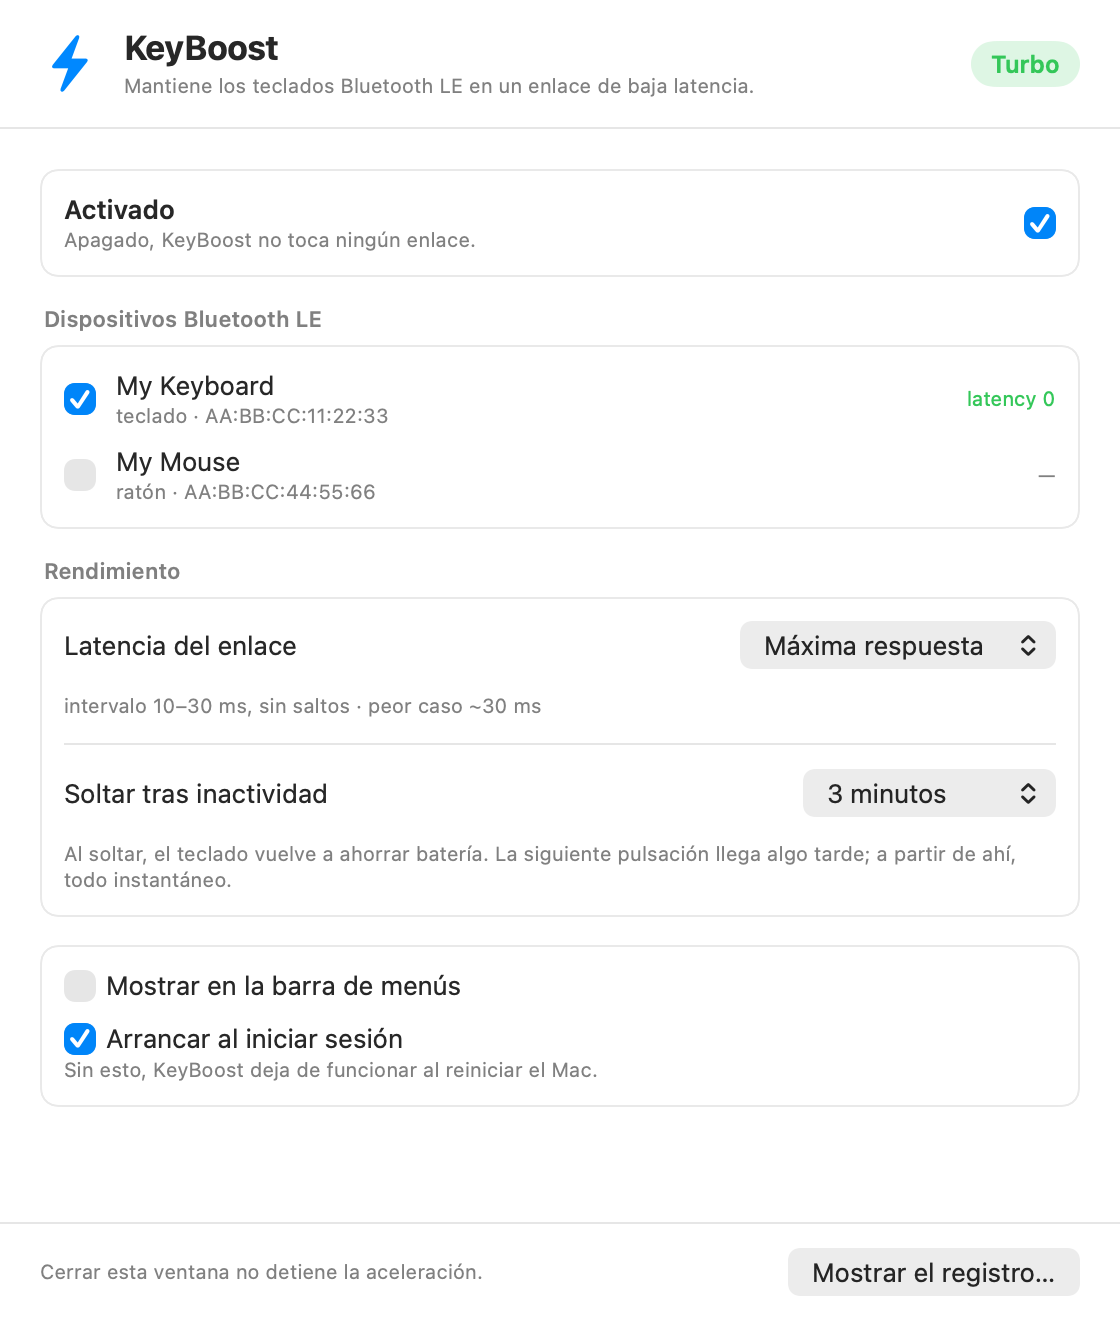
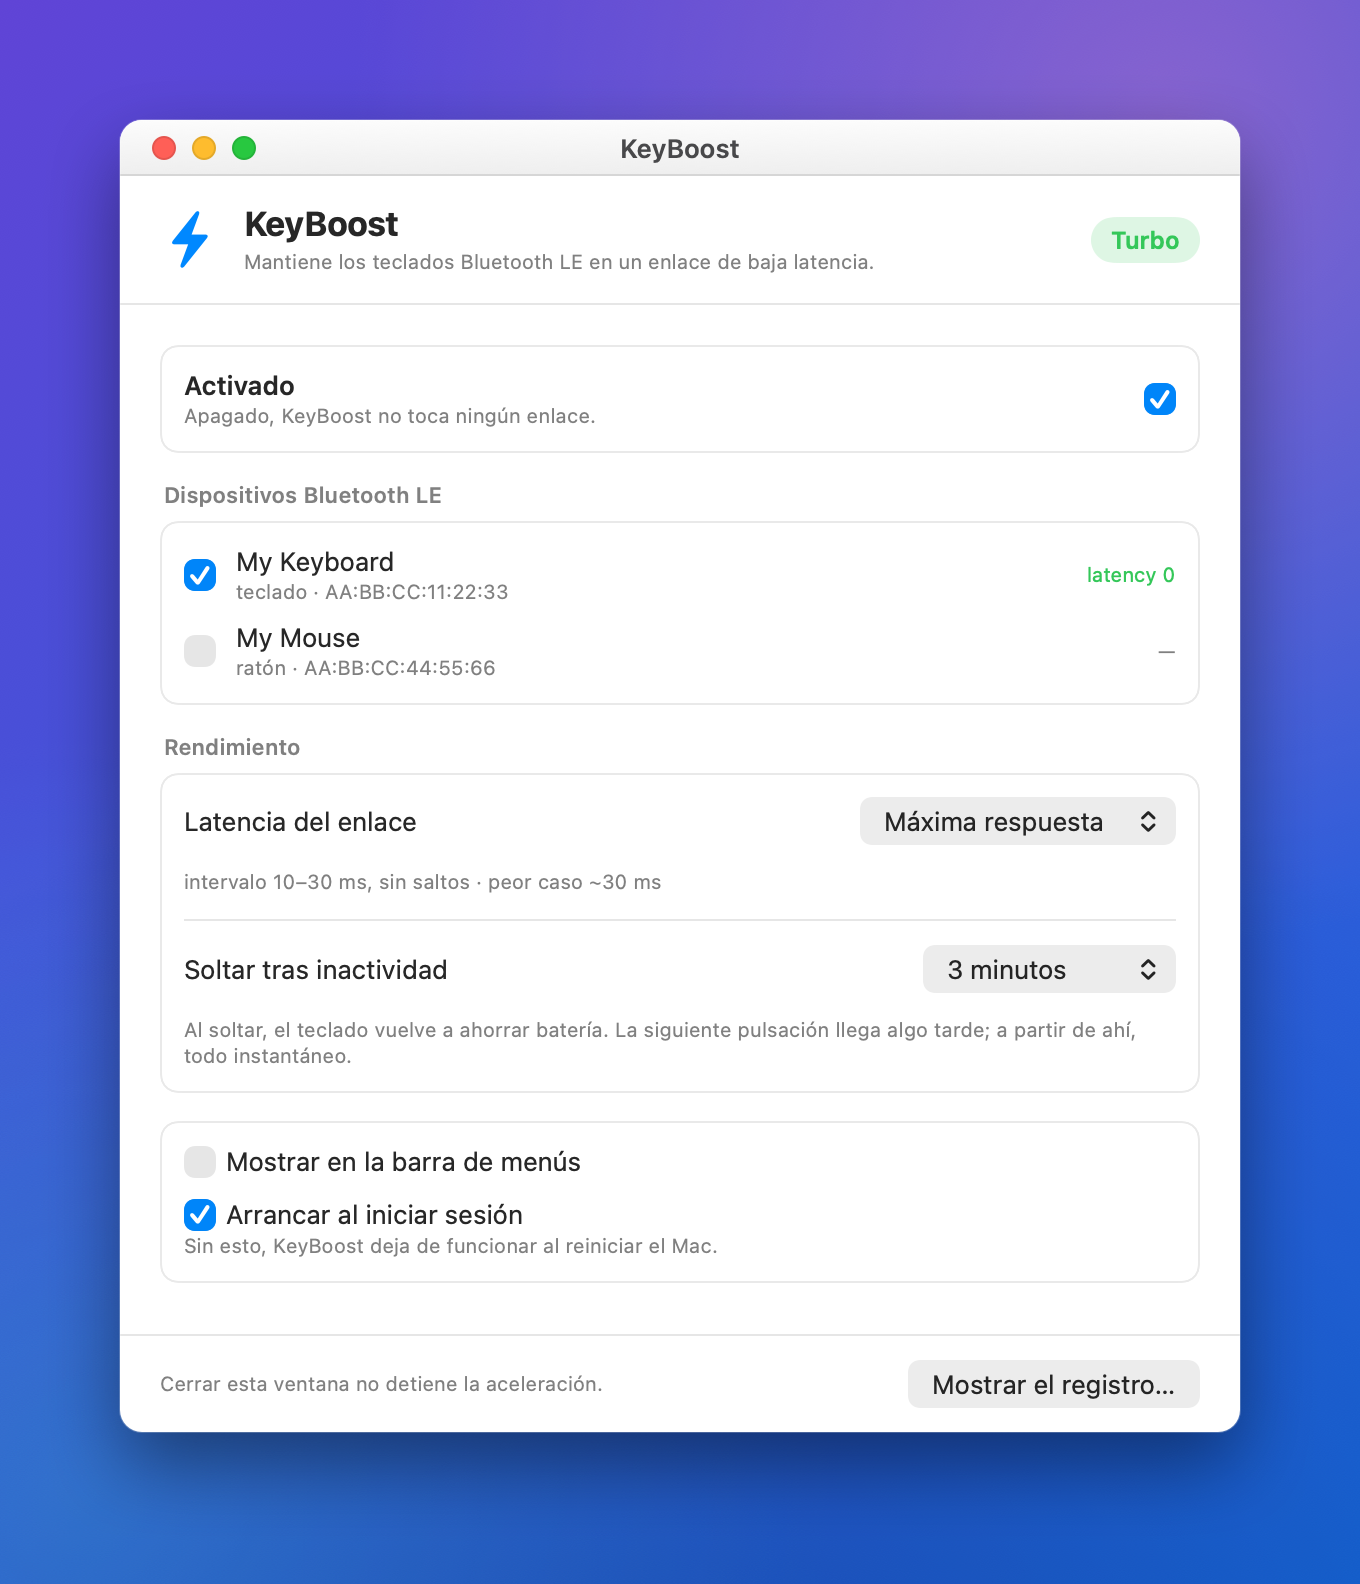
Add a framed screenshot with a desktop background
The bare render had no window chrome and read as a floating rectangle with no
context. It now sits in a proper macOS window — traffic lights, title bar, drop
shadow — on a gradient desktop.

scripts/make-screenshot.swift generates it, so it can be regenerated for any
language with -AppleLanguages. It uses ImageRenderer rather than a screen
capture, which keeps it free of any Screen Recording permission.

diff --git a/scripts/make-screenshot.swift b/scripts/make-screenshot.swift
@@ -1,0 +1,124 @@
+// Renders the settings window into a framed screenshot for the README.
+//
+// Compiled together with the app sources into a minimal .app bundle, so that
+// NSLocalizedString resolves and the language can be forced with -AppleLanguages.
+// ImageRenderer is used instead of a screen capture, which keeps this free of any
+// Screen Recording permission. It cannot draw Form, List, GroupBox or ScrollView,
+// which is why SettingsView exposes `previewBody`.
+import AppKit
+import SwiftUI
+
+let contentSize = NSSize(width: 560, height: 628)
+let pad: CGFloat = 60
+let padBottom: CGFloat = 76   // el desenfoque de la sombra cae hacia abajo
+let titleBar: CGFloat = 28
+let radius: CGFloat = 11
+let scale: CGFloat = 2
+
+func rgb(_ r: CGFloat, _ g: CGFloat, _ b: CGFloat, _ a: CGFloat = 1) -> NSColor {
+    NSColor(srgbRed: r/255, green: g/255, blue: b/255, alpha: a)
+}
+
+/// Soft radial wash, the kind macOS wallpapers are made of.
+func glow(_ color: NSColor, at point: NSPoint, radius r: CGFloat) {
+    NSGradient(colors: [color, color.withAlphaComponent(0)])!
+        .draw(fromCenter: point, radius: 0, toCenter: point, radius: r, options: [])
+}
+
+let app = NSApplication.shared
+app.setActivationPolicy(.prohibited)
+let model = Model()
+
+DispatchQueue.main.asyncAfter(deadline: .now() + 1.2) {
+    // 1. The window contents.
+    let renderer = ImageRenderer(content:
+        SettingsView(model: model).previewBody
+            .frame(width: contentSize.width, height: contentSize.height))
+    renderer.scale = scale
+    guard let content = renderer.nsImage else { print("render failed"); exit(1) }
+
+    // 2. The canvas.
+    let winW = contentSize.width, winH = contentSize.height + titleBar
+    let canvas = NSSize(width: winW + pad * 2, height: winH + pad + padBottom)
+    let rep = NSBitmapImageRep(bitmapDataPlanes: nil,
+                               pixelsWide: Int(canvas.width * scale),
+                               pixelsHigh: Int(canvas.height * scale),
+                               bitsPerSample: 8, samplesPerPixel: 4, hasAlpha: true,
+                               isPlanar: false, colorSpaceName: .deviceRGB,
+                               bytesPerRow: 0, bitsPerPixel: 0)!
+    rep.size = canvas
+    NSGraphicsContext.saveGraphicsState()
+    NSGraphicsContext.current = NSGraphicsContext(bitmapImageRep: rep)
+    NSGraphicsContext.current?.imageInterpolation = .high
+
+    // 3. Desktop background: violet to blue, with warm and cool washes over it.
+    let full = NSRect(origin: .zero, size: canvas)
+    NSGradient(colors: [rgb(96, 68, 214), rgb(22, 104, 220)])!.draw(in: full, angle: -60)
+    glow(rgb(255, 138, 190, 0.34), at: NSPoint(x: canvas.width * 0.86, y: canvas.height * 0.92),
+         radius: canvas.width * 0.60)
+    glow(rgb(70, 220, 235, 0.26), at: NSPoint(x: canvas.width * 0.06, y: canvas.height * 0.06),
+         radius: canvas.width * 0.55)
+    glow(rgb(12, 16, 64, 0.30), at: NSPoint(x: canvas.width * 0.5, y: -canvas.height * 0.25),
+         radius: canvas.width * 0.95)
+
+    // 4. Window, with the shadow it would cast on a real desktop.
+    let win = NSRect(x: pad, y: padBottom, width: winW, height: winH)
+    let winPath = NSBezierPath(roundedRect: win, xRadius: radius, yRadius: radius)
+    NSGraphicsContext.saveGraphicsState()
+    let shadow = NSShadow()
+    shadow.shadowColor = NSColor(white: 0, alpha: 0.42)
+    shadow.shadowBlurRadius = 40
+    shadow.shadowOffset = NSSize(width: 0, height: -16)
+    shadow.set()
+    NSColor.white.setFill()
+    winPath.fill()
+    NSGraphicsContext.restoreGraphicsState()
+
+    NSGraphicsContext.saveGraphicsState()
+    winPath.addClip()
+
+    // Contents sit below the title bar.
+    content.draw(in: NSRect(x: win.minX, y: win.minY, width: winW, height: contentSize.height))
+
+    // Title bar.
+    let bar = NSRect(x: win.minX, y: win.maxY - titleBar, width: winW, height: titleBar)
+    NSGradient(colors: [rgb(252, 252, 252), rgb(238, 238, 238)])!.draw(in: bar, angle: -90)
+    rgb(214, 214, 214).setFill()
+    NSRect(x: bar.minX, y: bar.minY, width: bar.width, height: 1).fill()
+
+    // Traffic lights.
+    let lights: [NSColor] = [rgb(255, 95, 87), rgb(254, 188, 46), rgb(40, 200, 64)]
+    for (i, color) in lights.enumerated() {
+        let d: CGFloat = 12
+        let r = NSRect(x: bar.minX + 16 + CGFloat(i) * 20, y: bar.midY - d/2, width: d, height: d)
+        color.setFill(); NSBezierPath(ovalIn: r).fill()
+        NSColor(white: 0, alpha: 0.10).setStroke()
+        let ring = NSBezierPath(ovalIn: r.insetBy(dx: 0.5, dy: 0.5)); ring.lineWidth = 1; ring.stroke()
+    }
+
+    // Window title.
+    let title = "KeyBoost" as NSString
+    let attrs: [NSAttributedString.Key: Any] = [
+        .font: NSFont.systemFont(ofSize: 13, weight: .semibold),
+        .foregroundColor: rgb(72, 72, 74),
+    ]
+    let size = title.size(withAttributes: attrs)
+    title.draw(at: NSPoint(x: bar.midX - size.width/2, y: bar.midY - size.height/2), withAttributes: attrs)
+
+    NSGraphicsContext.restoreGraphicsState()
+
+    // Hairline around the whole window.
+    NSColor(white: 1, alpha: 0.22).setStroke()
+    winPath.lineWidth = 1
+    winPath.stroke()
+
+    NSGraphicsContext.restoreGraphicsState()
+
+    let out = CommandLine.arguments.contains("--out")
+        ? CommandLine.arguments[CommandLine.arguments.firstIndex(of: "--out")! + 1]
+        : "docs/screenshot.png"
+    try! rep.representation(using: .png, properties: [:])!.write(to: URL(fileURLWithPath: out))
+    print("wrote \(out)")
+    exit(0)
+}
+RunLoop.main.run()
